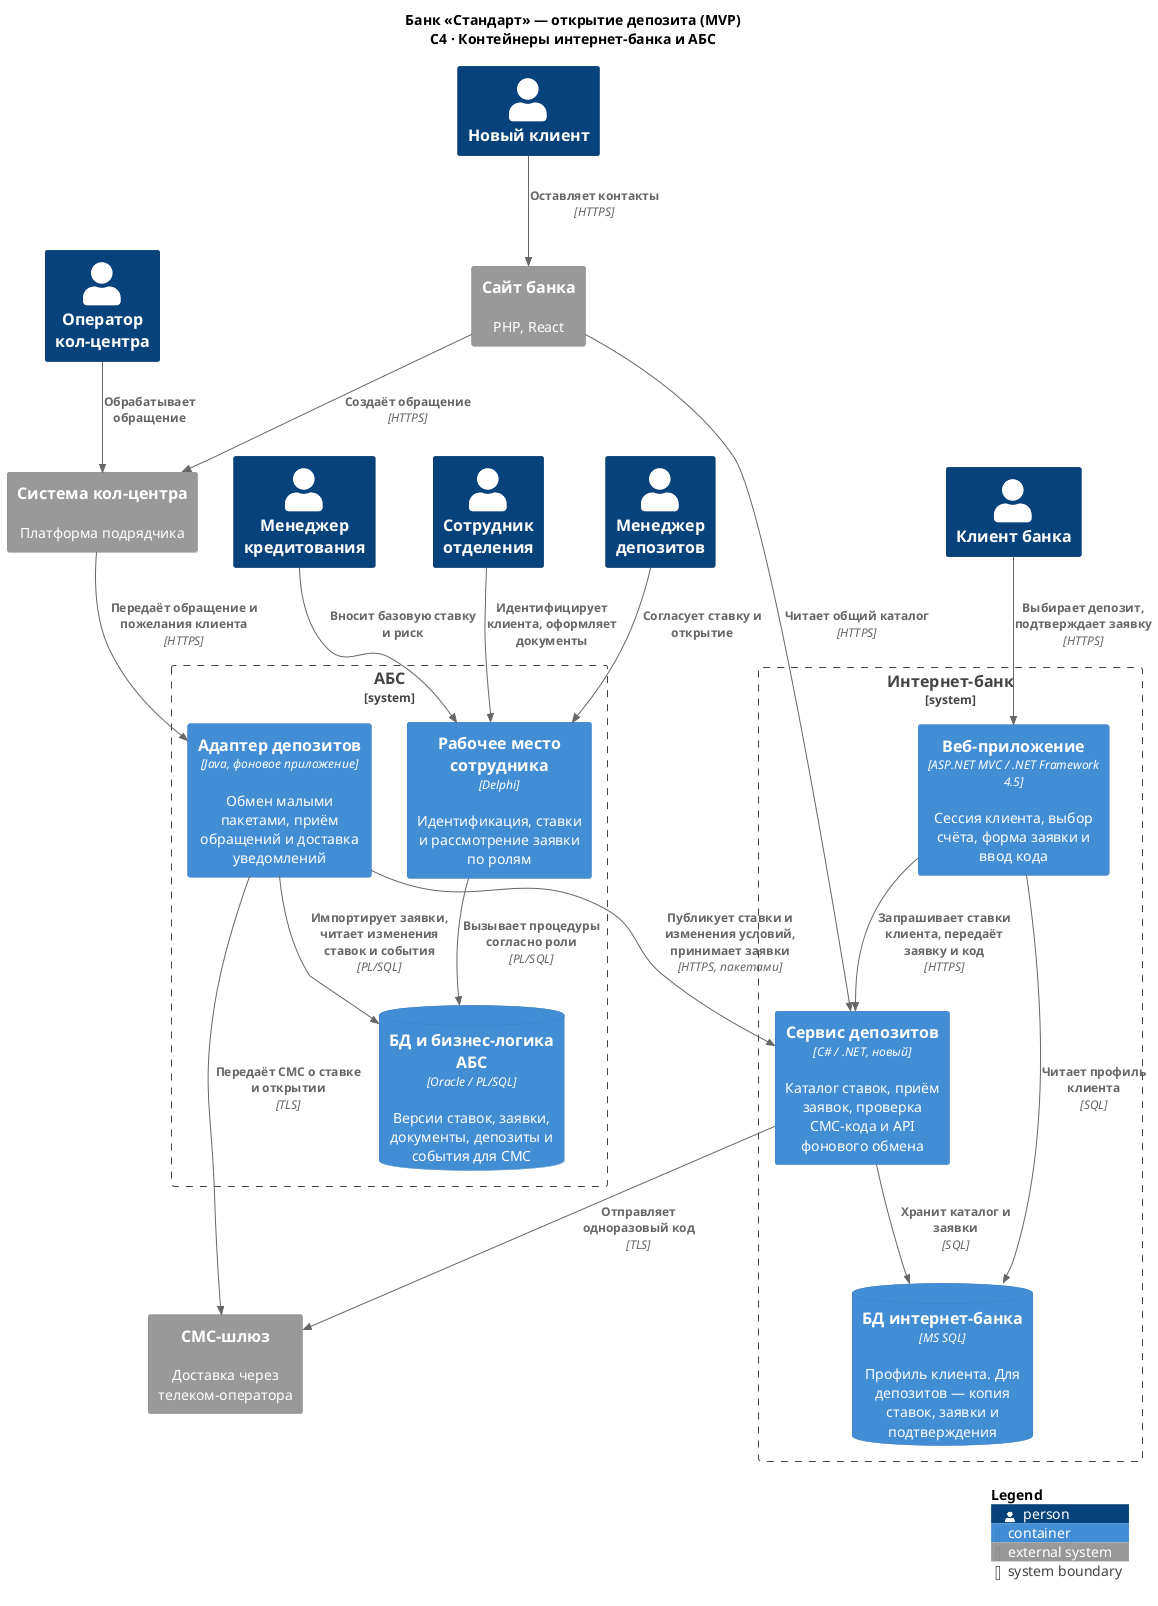
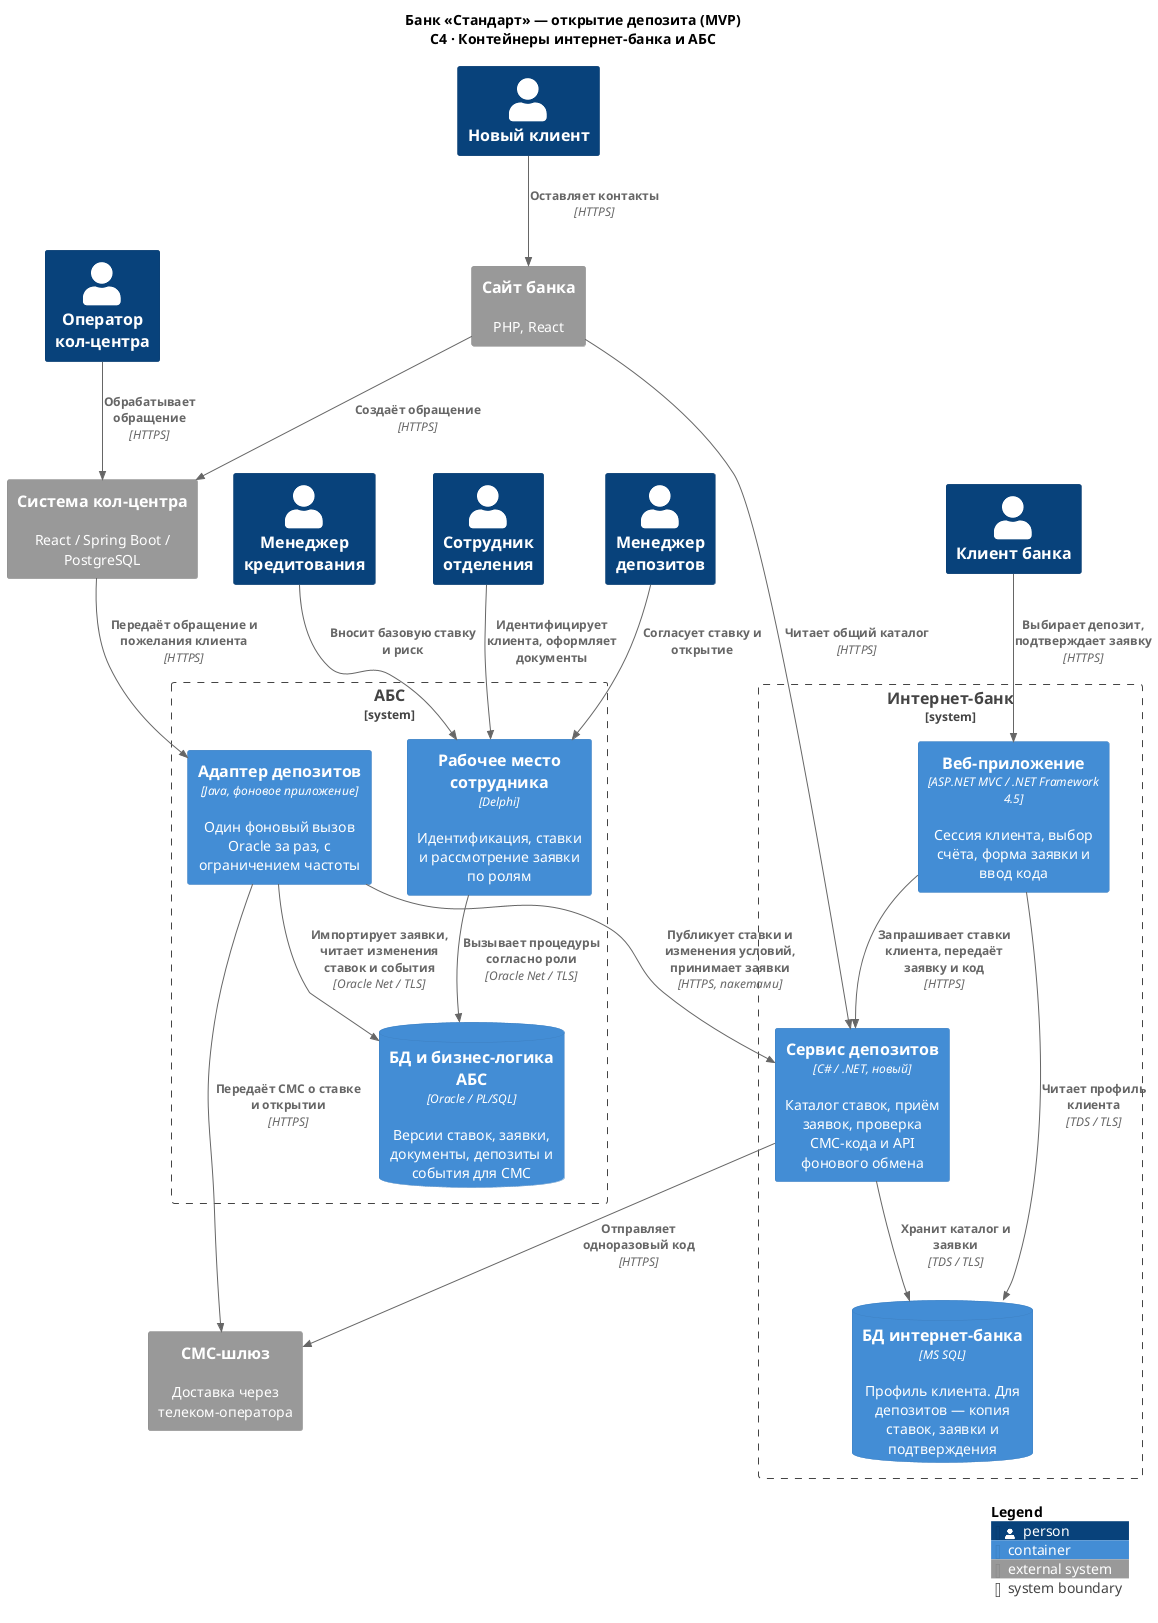
comments work

diff --git a/Task3/ADR.md b/Task3/ADR.md
@@ -37,7 +37,9 @@
 
 **Заявка и согласие клиента.** Сайт отправляет контакты в систему кол-центра по HTTPS. Для одного обращения сайт, кол-центр и АБС используют один номер. При повторной отправке система кол-центра возвращает уже зарегистрированное обращение. В интернет-банке сервис депозитов сам запрашивает отправку кода на подтверждённый номер клиента через существующий СМС-шлюз. Одноразовый код с ограниченным сроком действия привязан к заявке, счёту, сумме и версии условий. Сервис проверяет код и сохраняет подтверждение в MS SQL одной транзакцией. Изменение условий требует нового подтверждения. Ядро монолита остаётся в ведении подрядчика.
 
-**Обмен с АБС.** Новый адаптер на стороне АБС обслуживает существующий маршрут обращений из кол-центра и периодически вызывает внутренний HTTPS API сервиса депозитов. Он публикует изменившиеся ставки и забирает подтверждённые заявки небольшими пакетами. Если менеджер изменил условия конкретной заявки, адаптер публикует предложение с её номером и новой версией. Клиент видит его в интернет-банке и подтверждает повторно. Адаптер возвращает согласие в АБС по тому же номеру заявки. Адаптер подтверждает приём только после записи в Oracle. Уникальный номер заявки в обеих системах и связь депозита с этим номером защищают от дублей при повторе. Размер пакета и интервал выбирает команда АБС по результатам замера нагрузки. Для MVP достаточно этого обмена и двух существующих СУБД.
+**Обмен с АБС.** Новый адаптер на стороне АБС обслуживает существующий маршрут обращений из кол-центра и периодически вызывает внутренний HTTPS API сервиса депозитов. Он публикует изменившиеся ставки и забирает подтверждённые заявки небольшими пакетами. Если менеджер изменил условия конкретной заявки, адаптер публикует предложение с её номером и новой версией. Клиент видит его в интернет-банке и подтверждает повторно. Адаптер возвращает согласие в АБС по тому же номеру заявки. Адаптер подтверждает приём только после записи в Oracle. Уникальный номер заявки в обеих системах и связь депозита с этим номером защищают от дублей при повторе. До подтверждения заявки остаются в очереди в MS SQL.
+
+**Защита Oracle.** Один активный обработчик адаптера выполняет не более одного фонового вызова PL/SQL одновременно. Чтение ставок, импорт заявок и обработка уведомлений делят один лимит вызовов в секунду. Интервал между вызовами сохраняется и при накоплении очереди. Размер пакета и лимит команда АБС подбирает при пиковой нагрузке отделений по времени ответа их операций. При тайм-ауте Oracle или превышении согласованного порога задержки адаптер приостанавливает фоновую обработку. Интервал до следующей попытки удваивается до заданного максимума. После успешного пробного вызова адаптер продолжает с последнего подтверждения с тем же ограничением частоты.
 
 **Открытие и уведомления.** Менеджеры работают через клиент Delphi в пределах своих ролей. Перед открытием процедуры АБС проверяют согласие на итоговые условия, идентификацию, принадлежность счёта и доступную сумму. АБС сохраняет смену статуса и запись для отправки СМС в одной транзакции Oracle. Адаптер последовательно отправляет уведомления о согласованной ставке и состоявшемся открытии через шлюз. Сбой доставки оставляет запись для повтора и виден поддержке по номеру заявки.
 
@@ -54,7 +56,7 @@
 ### <a name="_bjrr7veeh80c"></a>**Альтернативы**
 
 - **Синхронные запросы из каналов в АБС.** Дают самую свежую ставку, но каждый просмотр каталога увеличивает нагрузку на Oracle. Сбой АБС блокирует даже просмотр предложений.
-- **Kafka для обмена ставками и заявками.** Полезна при росте числа потребителей. Для двух каналов в MVP пакетный обмен проще в сопровождении, а прямой клиент Kafka несовместим с текущей платформой интернет-банка.
+- **Kafka для обмена ставками и заявками.** Полезна при росте числа потребителей. Для MVP очередь подтверждённых заявок уже хранится в MS SQL. При переходе на Kafka потребителю всё равно потребуется ограничивать частоту записи в Oracle.
 - **Доработка СМС-модуля в ядре интернет-банка.** Позволяет переиспользовать механизм подрядчика, но ставит сроки MVP в зависимость от его релиза. В выбранном варианте команда банка отвечает за привязку кода к операции и ограничение попыток ввода.
 
 **Недостатки, ограничения, риски**
